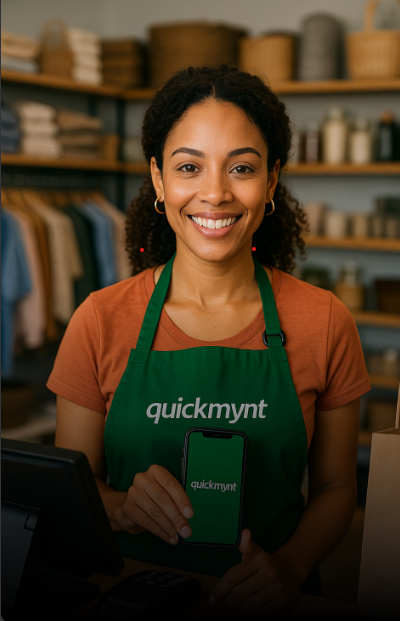
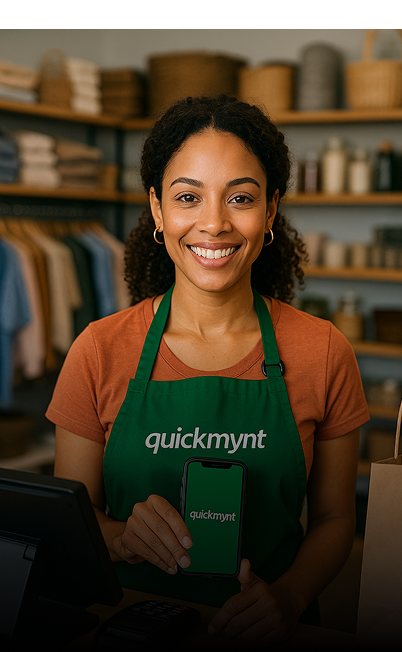
removed background image stretch and reduced FAQ spaces

diff --git a/src/components/HomePageComponents/SectionSeven.jsx b/src/components/HomePageComponents/SectionSeven.jsx
@@ -57,48 +57,34 @@ const SectionSeven = () => {
   const [showFull, setShowFull] = useState(false);
 
   return (
-    <section id="faq" className={`w-full transition-all duration-1000 ${showFull ? "h-[75em] lg:h-[111.25em]" : "h-[63.12em] lg:h-[96.88em]"} bg-[#00204C] relative pt-14`}>
-        <div className="flex flex-col gap-5 items-center">
-            <div className="w-full max-w-[21.31em] lg:max-w-[90em] text-white flex flex-col lg:flex-row justify-center items-center gap-8 lg:gap-0 ">
-                <div className="flex w-full justify-start items-center ">
-                    <p className="max-w-[18.32em] w-full lg:max-w-[8.69em] font-[800] font-osande text-[1.88em] lg:text-[3.75em] leading-[40px] lg:leading-[69.02px]">
-                    Wondering How QuickMynt Works? Let's Break It Down
-                    </p>
-                </div>
-                <div className="flex flex-col gap-3 lg:gap-8 items-start  w-full">
-                    <div className={`flex flex-col gap-4 lg:gap-8 transition-all duration-1000
+    <section id="faq" className={`md:!pt-[2.5rem] w-full transition-all duration-1000 ${showFull ? "h-[75em] lg:h-[111.25em]" : "h-[63.12em] lg:h-[96.88em]"} bg-[#00204C] relative pt-14`}>
+      <div className="flex flex-col gap-5 items-center">
+        <div className="w-full max-w-[21.31em] lg:max-w-[90em] text-white flex flex-col lg:flex-row justify-center items-center gap-8 lg:gap-0 ">
+          <div className="flex w-full justify-start items-center ">
+            <p className="max-w-[18.32em] w-full lg:max-w-[8.69em] font-[800] font-osande text-[1.88em] lg:text-[3.75em] leading-[40px] lg:leading-[69.02px]">Wondering How QuickMynt Works? Let's Break It Down</p>
+          </div>
+          <div className="flex flex-col gap-3 lg:gap-8 items-start  w-full">
+            <div
+              className={`flex flex-col gap-4 lg:gap-8 transition-all duration-1000
                       ${showFull ? "h-[48.75em] lg:h-[80.38em]" : "h-[37.5em] lg:h-[61.68em]"} overflow-hidden`}>
-                      <AccordionFAQ accordionData={accordionData} />
-                    </div>
-                    <button 
-                    className="flex p-0 text-[#46BDCE] gap-8 font-graphik font-[700] text-[1em] lg:text-[1.5em] 
+              <AccordionFAQ accordionData={accordionData} />
+            </div>
+            <button
+              className="flex p-0 text-[#46BDCE] gap-8 font-graphik font-[700] text-[1em] lg:text-[1.5em] 
                             leading-[16.91px] lg:leading-[32px] justify-center items-center bg-transparent
                             border-none outline-none focus:border-none focus:outline-none
                             "
-                    onClick={() => setShowFull(prev => !prev)}
-                    >
-                    View {showFull ? "less" : "more"} <FaArrowRight className="h-[1.36em] lg:h-[1.28em] w-[1.36em] lg:w-[1.9em]" />
-                    </button>
-                </div>
-            </div>
+              onClick={() => setShowFull((prev) => !prev)}>
+              View {showFull ? "less" : "more"} <FaArrowRight className="h-[1.36em] lg:h-[1.28em] w-[1.36em] lg:w-[1.9em]" />
+            </button>
+          </div>
         </div>
+      </div>
 
       <div className="absolute bottom-0 left-0 w-full overflow-hidden leading-[0]">
-        <svg
-          className="w-full h-[6.25em] lg:h-[18.75em] lg:h-[25em]"
-          xmlns="http://www.w3.org/2000/svg"
-          viewBox="0 0 1440 320"
-          preserveAspectRatio="none"
-        >
-          <path
-            d="m395.33,47.74c-220.05,-86.96 -429.38,-32.19 -506.53,6.06l-23.57,506.88l1563.35,-18.72c0.14,-146.03 -8.22,-442.99 -42.7,-462.6c-43.1,-24.52 -146.45,-97.56 -388.41,-34.06c-241.97,63.51 -327.07,111.14 -602.13,2.44l-0.01,0z"
-            fill="#003986"
-            transform="matrix(1 0 0 1 0 0)"
-          />
-          <path
-            d="m385.77,138.4c-239.63,-37.35 -455.84,30.83 -533.98,69.59l18.45,385.34l1648.06,-214.77c-12.34,-110.17 -46.53,-333.08 -84.59,-343.45c-47.57,-12.96 -154.38,-74.17 -404.27,4.78c-249.89,78.96 -344.12,145.19 -643.67,98.51z"
-            fill="#FCEBE3"
-          />
+        <svg className="w-full h-[6.25em] lg:h-[18.75em] lg:h-[25em]" xmlns="http://www.w3.org/2000/svg" viewBox="0 0 1440 320" preserveAspectRatio="none">
+          <path d="m395.33,47.74c-220.05,-86.96 -429.38,-32.19 -506.53,6.06l-23.57,506.88l1563.35,-18.72c0.14,-146.03 -8.22,-442.99 -42.7,-462.6c-43.1,-24.52 -146.45,-97.56 -388.41,-34.06c-241.97,63.51 -327.07,111.14 -602.13,2.44l-0.01,0z" fill="#003986" transform="matrix(1 0 0 1 0 0)" />
+          <path d="m385.77,138.4c-239.63,-37.35 -455.84,30.83 -533.98,69.59l18.45,385.34l1648.06,-214.77c-12.34,-110.17 -46.53,-333.08 -84.59,-343.45c-47.57,-12.96 -154.38,-74.17 -404.27,4.78c-249.89,78.96 -344.12,145.19 -643.67,98.51z" fill="#FCEBE3" />
         </svg>
       </div>
     </section>

diff --git a/src/components/HomePageComponents/SectionOne.jsx b/src/components/HomePageComponents/SectionOne.jsx
@@ -16,7 +16,7 @@ const SectionOne = () => {
 
   // md:h-[69.8125em]
   return (
-    <section className={"tiny:mt-[10vh] tiny:p-[0] xl:![background-repeat:round;] tiny:min-h-[90dvh] tiny:relative  mt-[0] md:mt-[10vh] !bg-cover bg-center banner flex flex-col w-full  md:min-h-[85vh] pt-[2.8em] bg-right  md:bg-top !relative justify-center items-center gap-6 !bg-[length:103rem] xl:![background-position-x:-0rem] md:![background-position-x:-19rem] md:!relative tiny:!mt-10vh xl:!mt-[15vh] tiny:!h-[90dvh] md:!h-[85vh]"}>
+    <section className={"tiny:mt-[10vh] tiny:p-[0] xl:!bg-no-repeat tiny:min-h-[90dvh] tiny:relative  mt-[0] md:mt-[10vh] !bg-cover bg-center banner flex flex-col w-full  md:min-h-[85vh] pt-[2.8em] bg-right  md:bg-top !relative justify-center items-center gap-6 xl:![background-position-x:-0rem] md:![background-position-x:-19rem] md:!relative tiny:!mt-10vh xl:!mt-[15vh] tiny:!h-[90dvh] md:!h-[85vh]"}>
       <div className="hidden opacity-0 absolute w-full h-full bg-custom-gradient mix-blend-multiply -mt-[2.8em]"></div>
       <div className="md:flex md:justify-center md:relative !relative tiny:!absolute md:top-[0] md:left-[0] tiny:bottom-[4rem] flex flex-col justify-start gap-6 md:gap-5 md:w-full md:max-w-[90em] h-[22.249em] md:h-[100%]">
         <div className="md:relative md:top-[-9rem] lg:top-[0] md:ml-[3rem] pt-15 z-40 flex flex-col justify-center gap-4 md:gap-6 max-w-[20.9375em] md:max-w-[33.563em]  ">

diff --git a/src/components/Accordion/AccordionContainerFAQ.jsx b/src/components/Accordion/AccordionContainerFAQ.jsx
@@ -9,7 +9,7 @@ const AccordionContainerFAQ = (props) => {
   return (
     <div className="flex flex-col gap-4">
       <p
-        className="mt-[4rem] flex justify-between items-start cursor-pointer font-graphik font-[600] text-[0.892em] lg:text-[1.688em] leading-[23.25px] lg:leading-[44px] "
+        className="mt-[1rem] flex justify-between items-start cursor-pointer font-graphik font-[600] text-[0.892em] lg:text-[1.688em] leading-[23.25px] lg:leading-[44px] "
         onClick={() => {
           props.clickHandler(props.position);
         }}>
